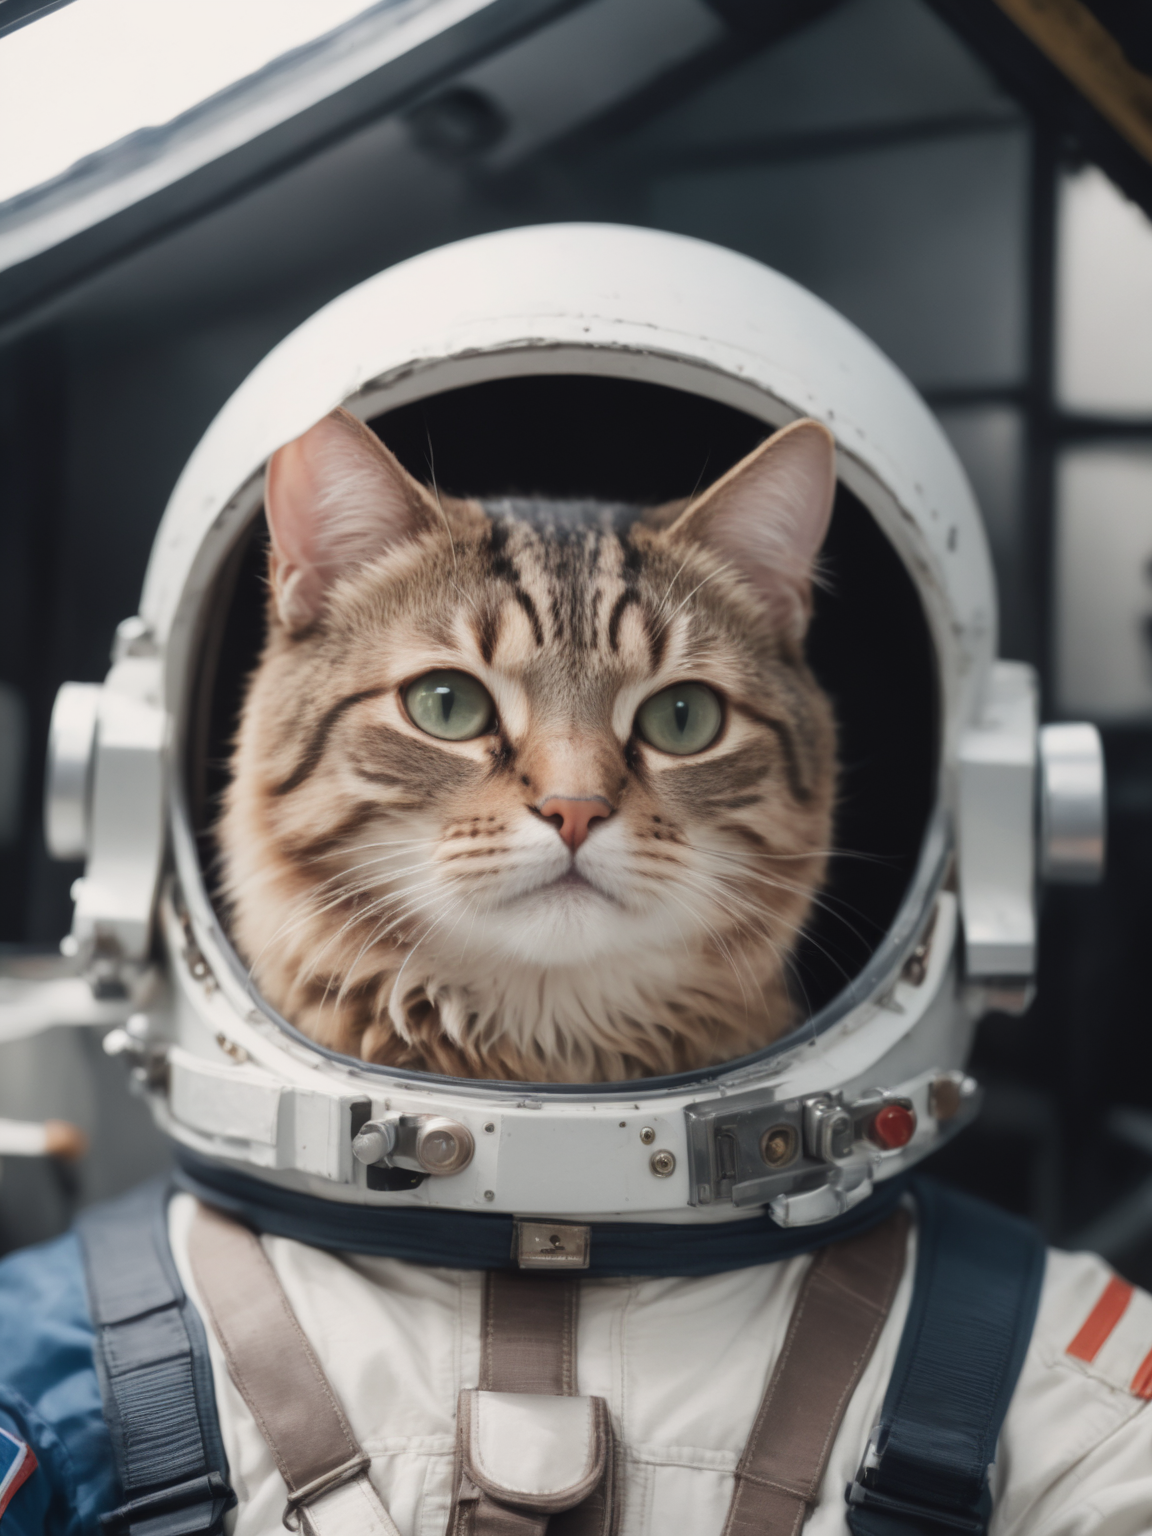
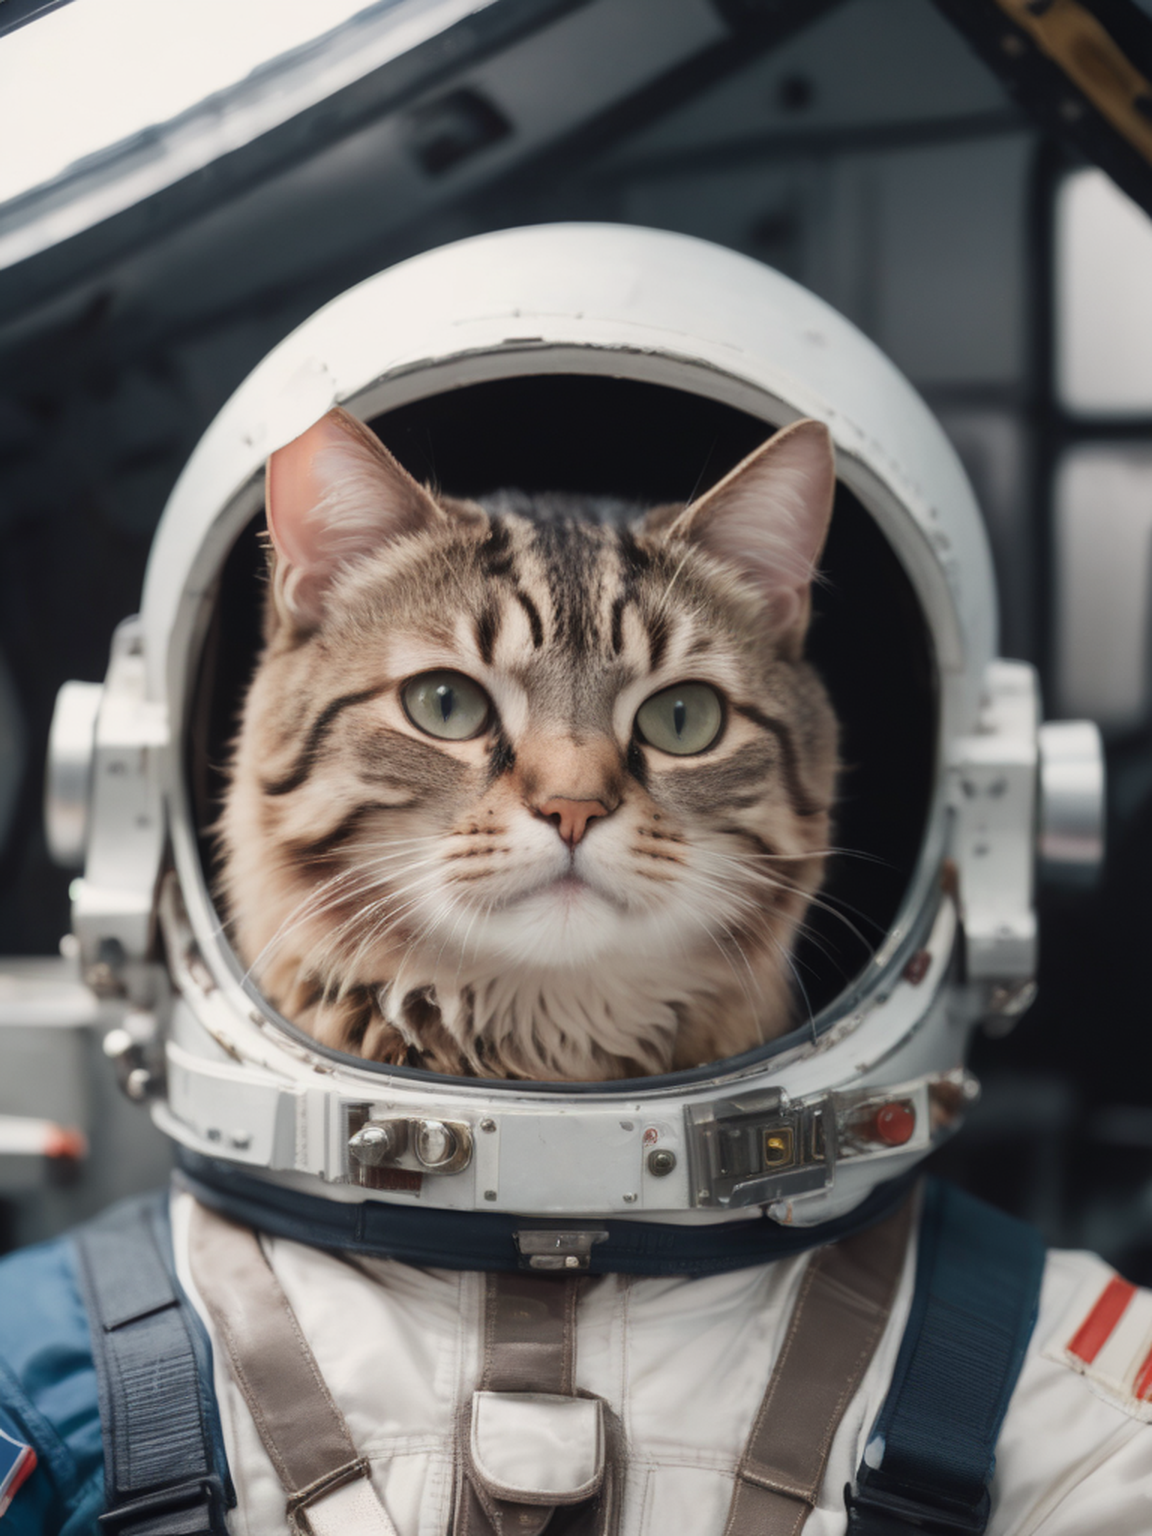
Update(auto commit)

diff --git a/_posts/2025-01-20-GenAI-Stable-Diffusion-2.md b/_posts/2025-01-20-GenAI-Stable-Diffusion-2.md
@@ -181,10 +181,10 @@ The refiner model is just another image-to-image model used to enhance an image 
 
 <div class="md-flex-h md-flex-no-wrap">
 <div><img src="{{site.baseurl}}/assets/images/2025/01/sd-02-base.png"></div>
-<div><img src="{{site.baseurl}}/assets/images/2025/01/sd-02-refine.png"></div>
+<div><img src="{{site.baseurl}}/assets/images/2025/01/sd-02-refined.png"></div>
 </div>
 
-The photo on the left was created using the SDXL base model, while the one on the right was enhanced by a refined model based on the original. At first glance, the differences may be subtle, upon a closer look, you will notice more details were added by the refine model to make the image appear more realistic.
+The photo on the left was created using the SDXL base model, while the one on the right was enhanced by a refined model based on the original. At first glance, the differences may be subtle, upon a closer look, you will notice more details (the cat's hair) were added by the refine model to make the image appear more realistic.
 
 ## Resource
 
